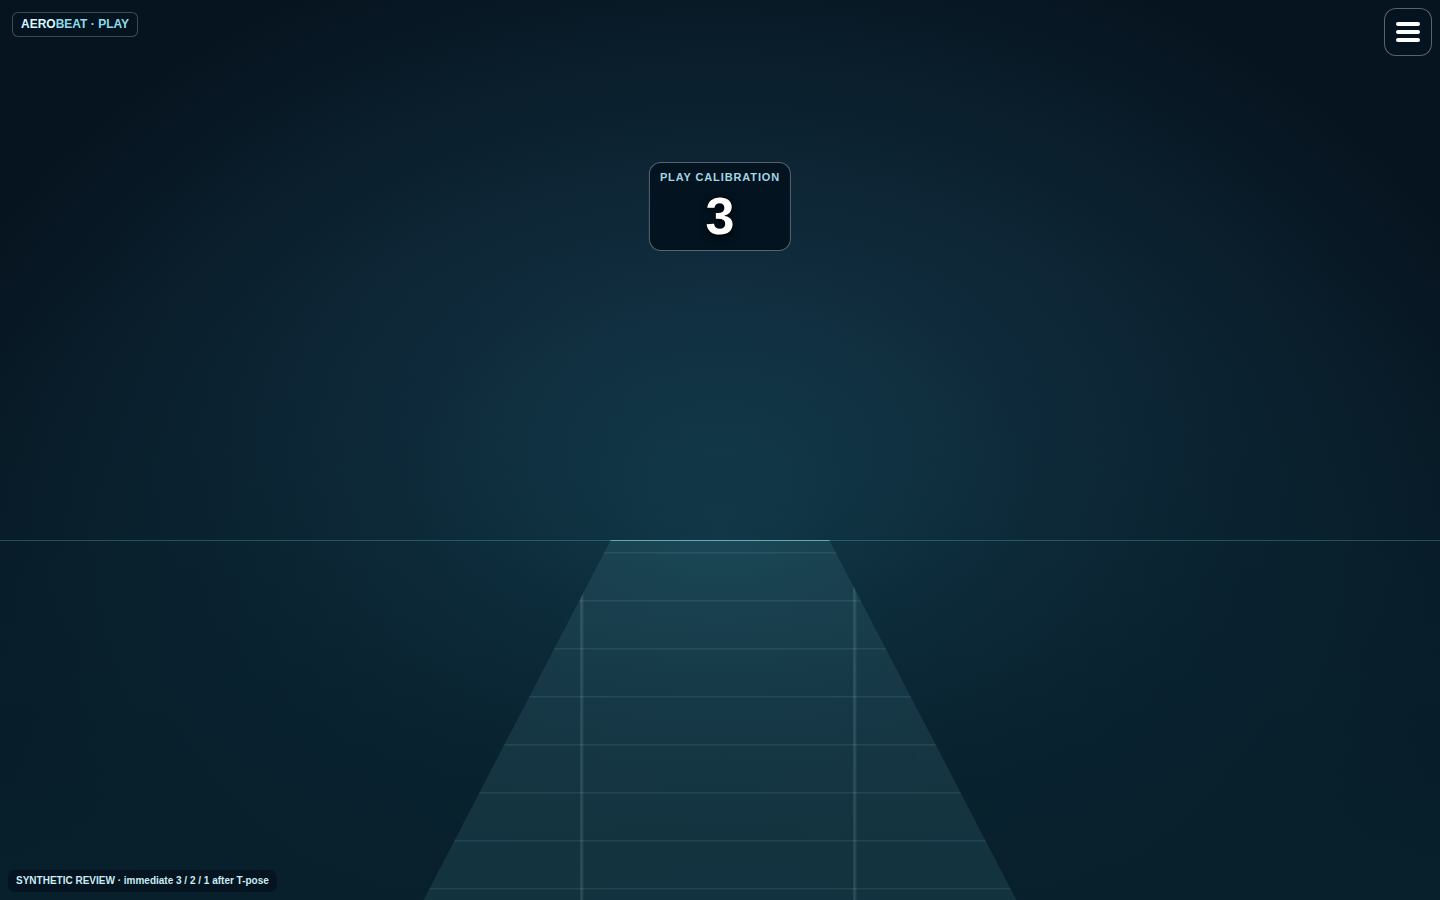
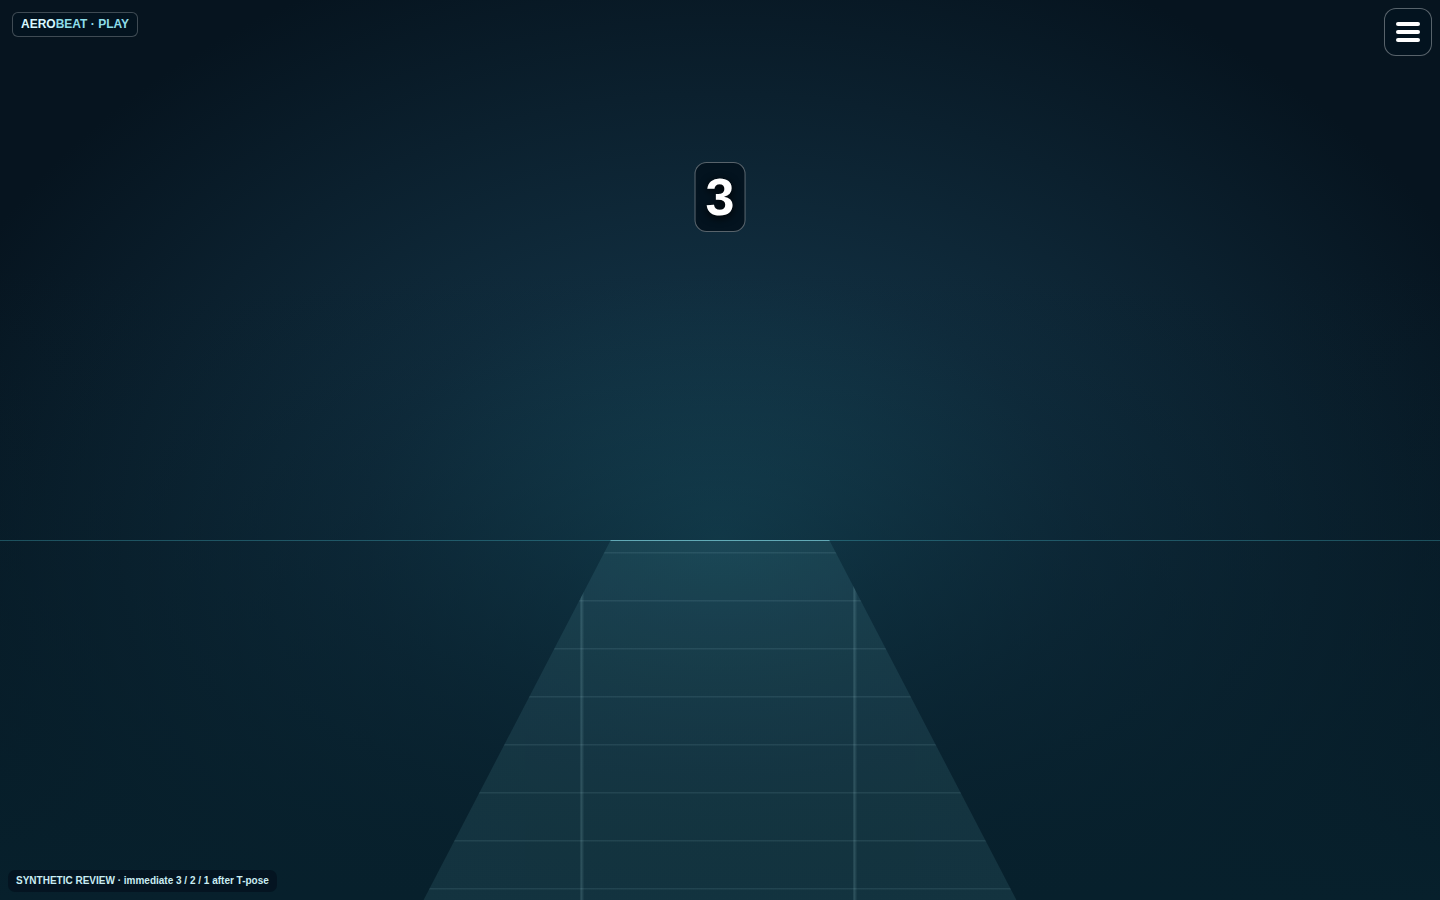
Record revision 5: countdown cue keeps the native digit-only chrome

Changed region(s): [[0.4375, 0.1867, 0.5625, 0.28]]

diff --git a/design/play-calibration-checklist.html b/design/play-calibration-checklist.html
@@ -33,7 +33,10 @@ const states={
  'boxing-knees-off':{mode:'BOXING · KNEE STRIKES OFF',subtitle:'Upper-body landmarks only.',missing:[],cue:'T-pose',detail:'Knee rows omitted while knee strikes are off',elapsed:'0 / 2 sec',progress:0,sample:'SYNTHETIC REVIEW · Boxing knee strikes off',knees:false}
 };
 const key=new URLSearchParams(location.search).get('state')||'knee-flicker';const state=states[key]||states['knee-flicker'];
-document.querySelector('.panel').hidden=key==='countdown';
+document.querySelector('.panel').hidden=key==='countdown';/* Revision 5 (2026-10-25, Derrick): the native Play countdown cue is the existing digit-only
+   chrome shared with non-calibration countdowns, so the countdown state drops the static
+   'Play calibration' label rather than asking production to add it. */
+if(key==='countdown')document.querySelector('.cue span').style.display='none';
 const row=(label,status,value)=>{const li=document.createElement('li');li.className=`row ${status}`;const icon=document.createElement('span');icon.className='icon';icon.setAttribute('aria-hidden','true');icon.textContent=status==='missing'?'!':status==='waiting'?'·':'✓';const name=document.createElement('span');name.textContent=label;const output=document.createElement('span');output.className='value';output.textContent=value;li.append(icon,name,output);return li};
 for(const label of (key==='countdown'?[]:all.filter(label=>state.knees!==false||!label.includes('Knee')))){const missing=state.missing.includes(label);document.querySelector('#landmarks').append(row(label,missing?'missing':'seen',missing?'Missing':'Seen'))}
 const poseStatus=key==='knee-flicker'||key==='boxing-knees-off'?'waiting':'holding';
